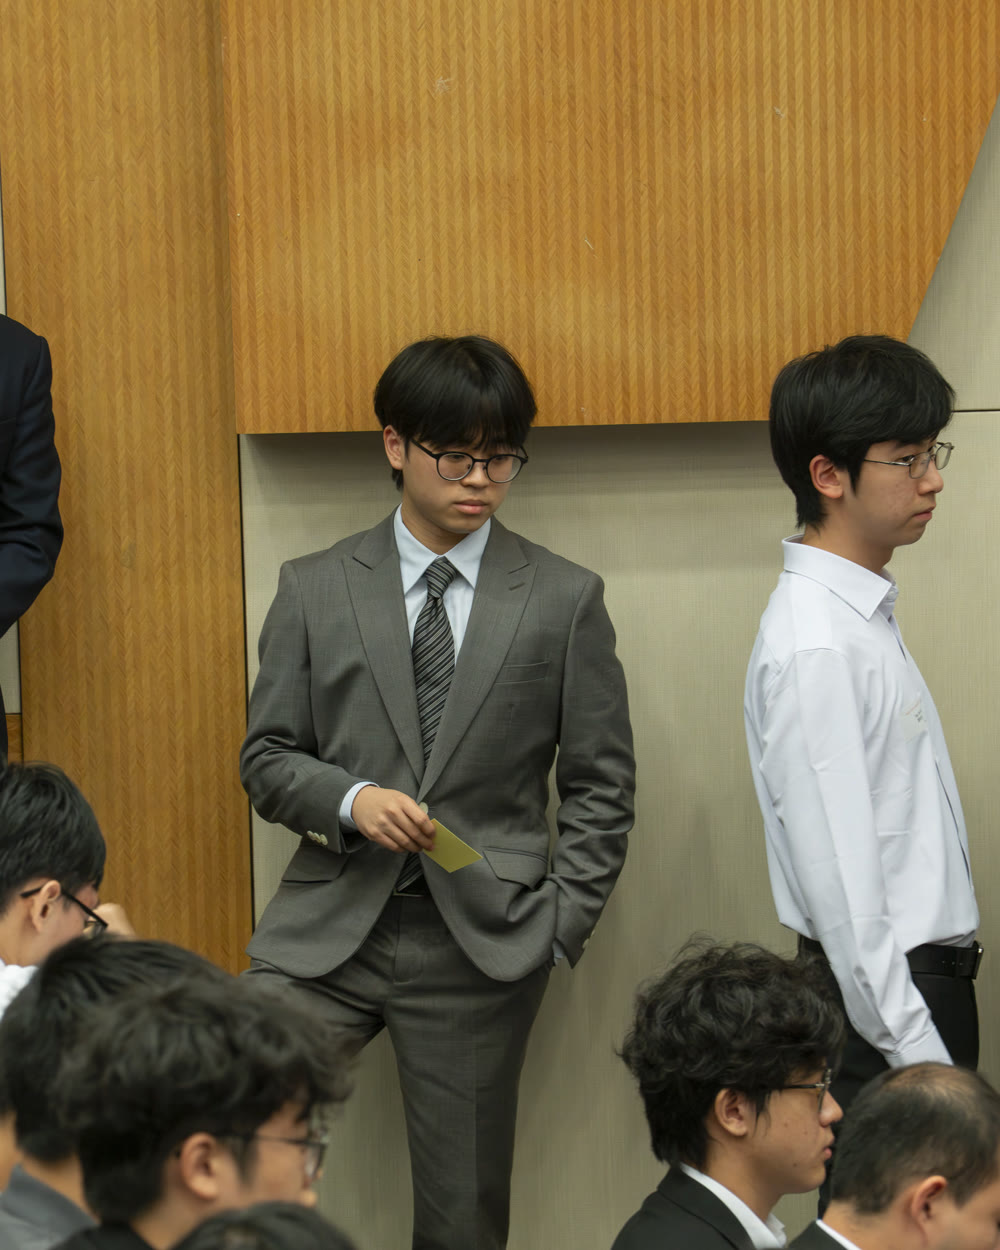
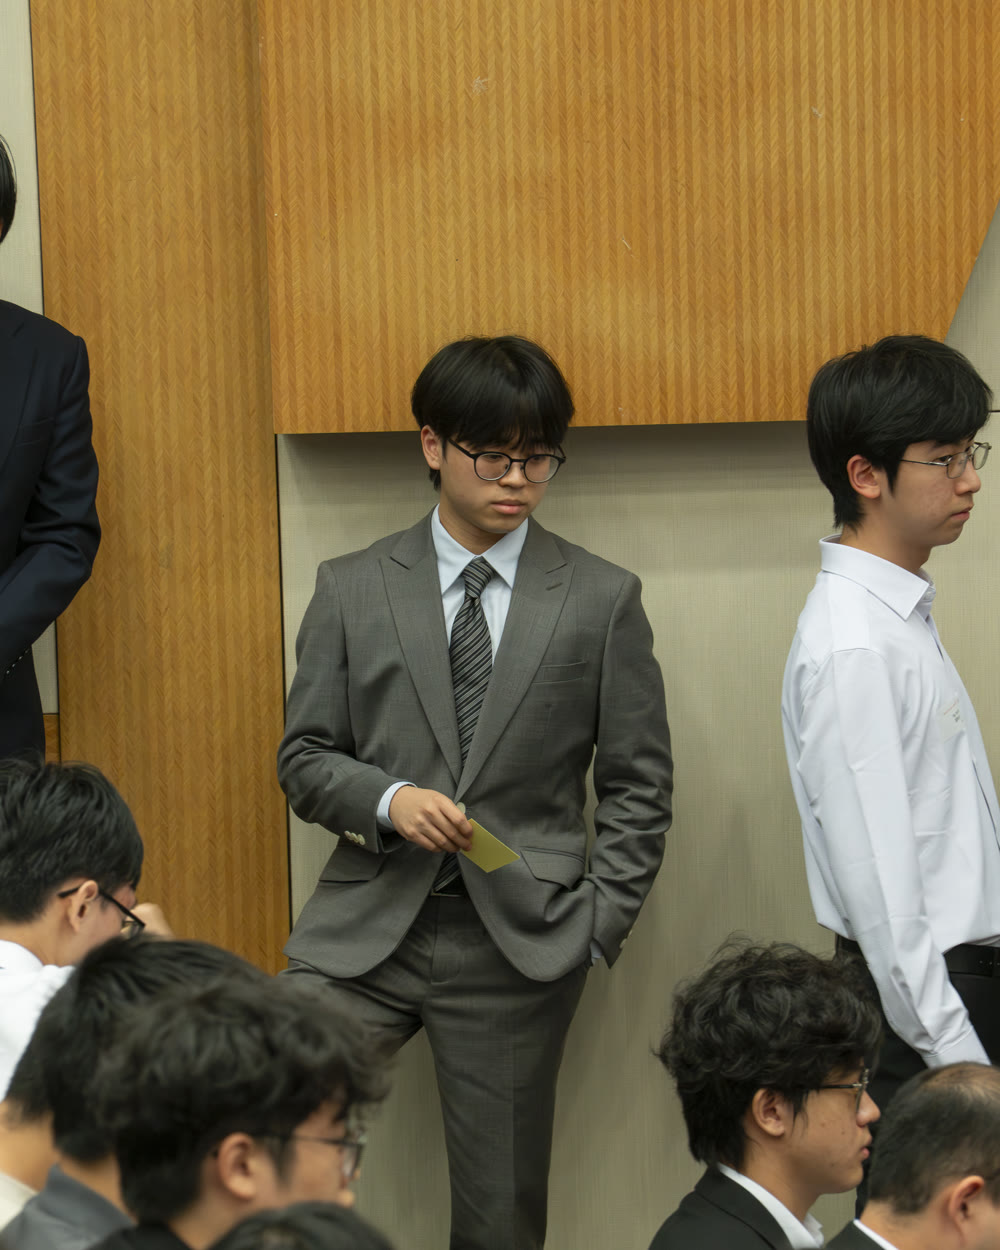
Center Eugene in the Get in touch photo frame
Recrop the contact aside photo so he sits optically in the middle of the
4:5 frame, instead of drifting left of center.

diff --git a/src/components/portfolio/ContactSection.tsx b/src/components/portfolio/ContactSection.tsx
@@ -51,7 +51,7 @@ export default function ContactSection() {
             <PhotoFrame
               photo={aside}
               className="w-full max-w-xl md:max-w-none md:justify-self-end"
-              objectPosition="center 20%"
+              objectPosition="center center"
             />
           </Reveal>
         ) : null}
